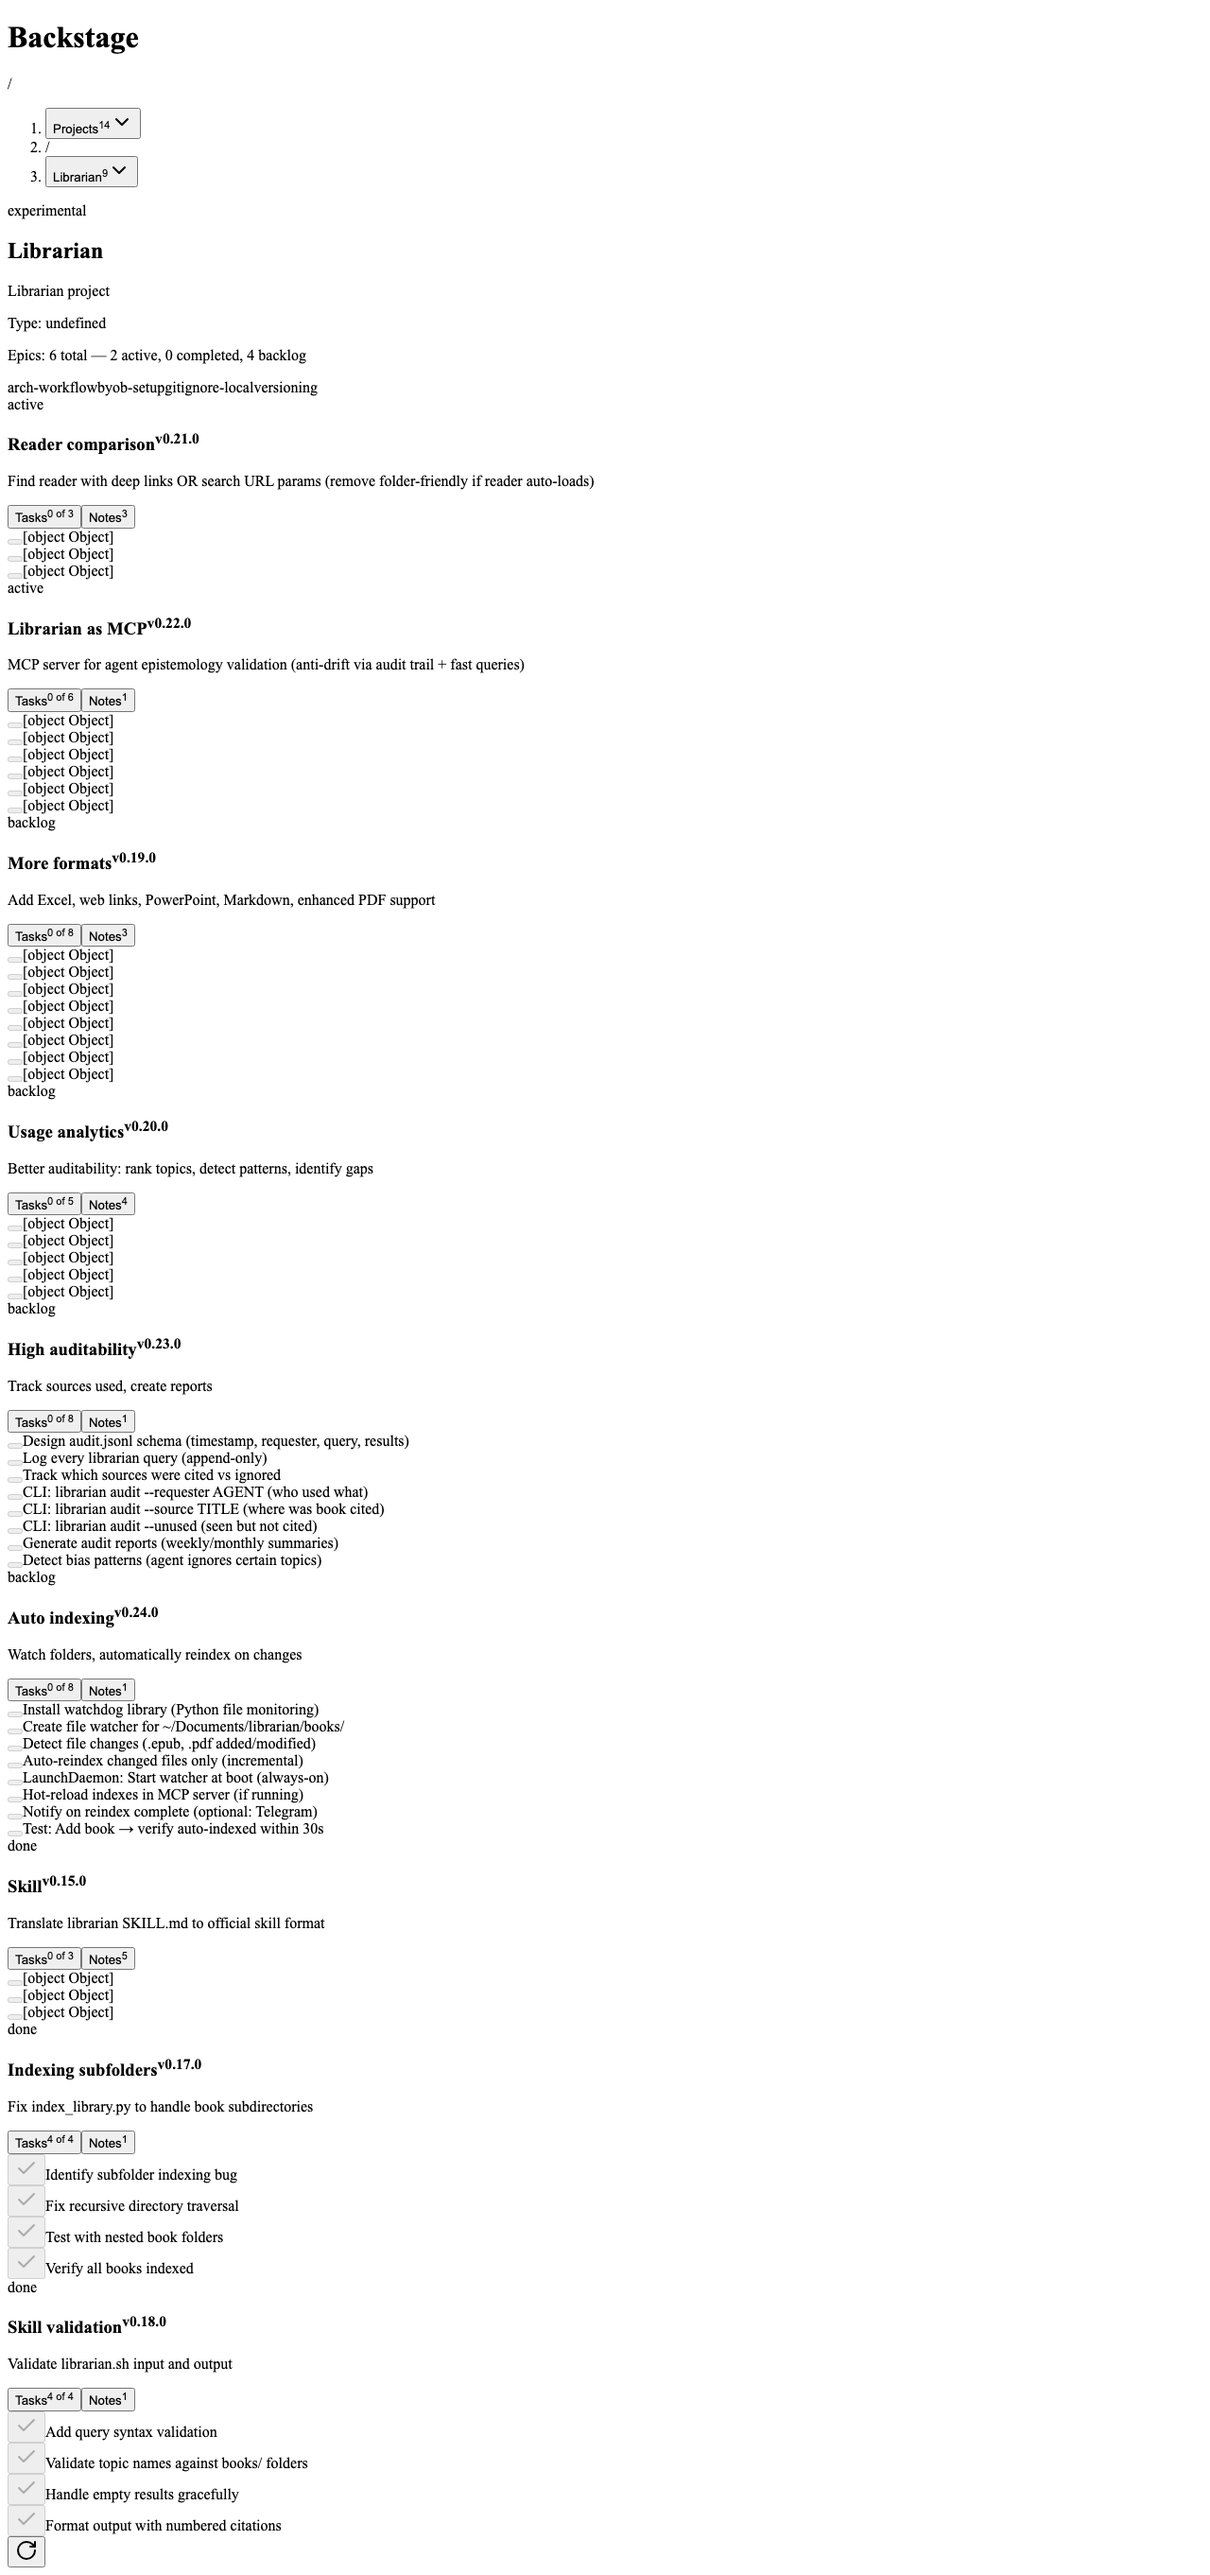
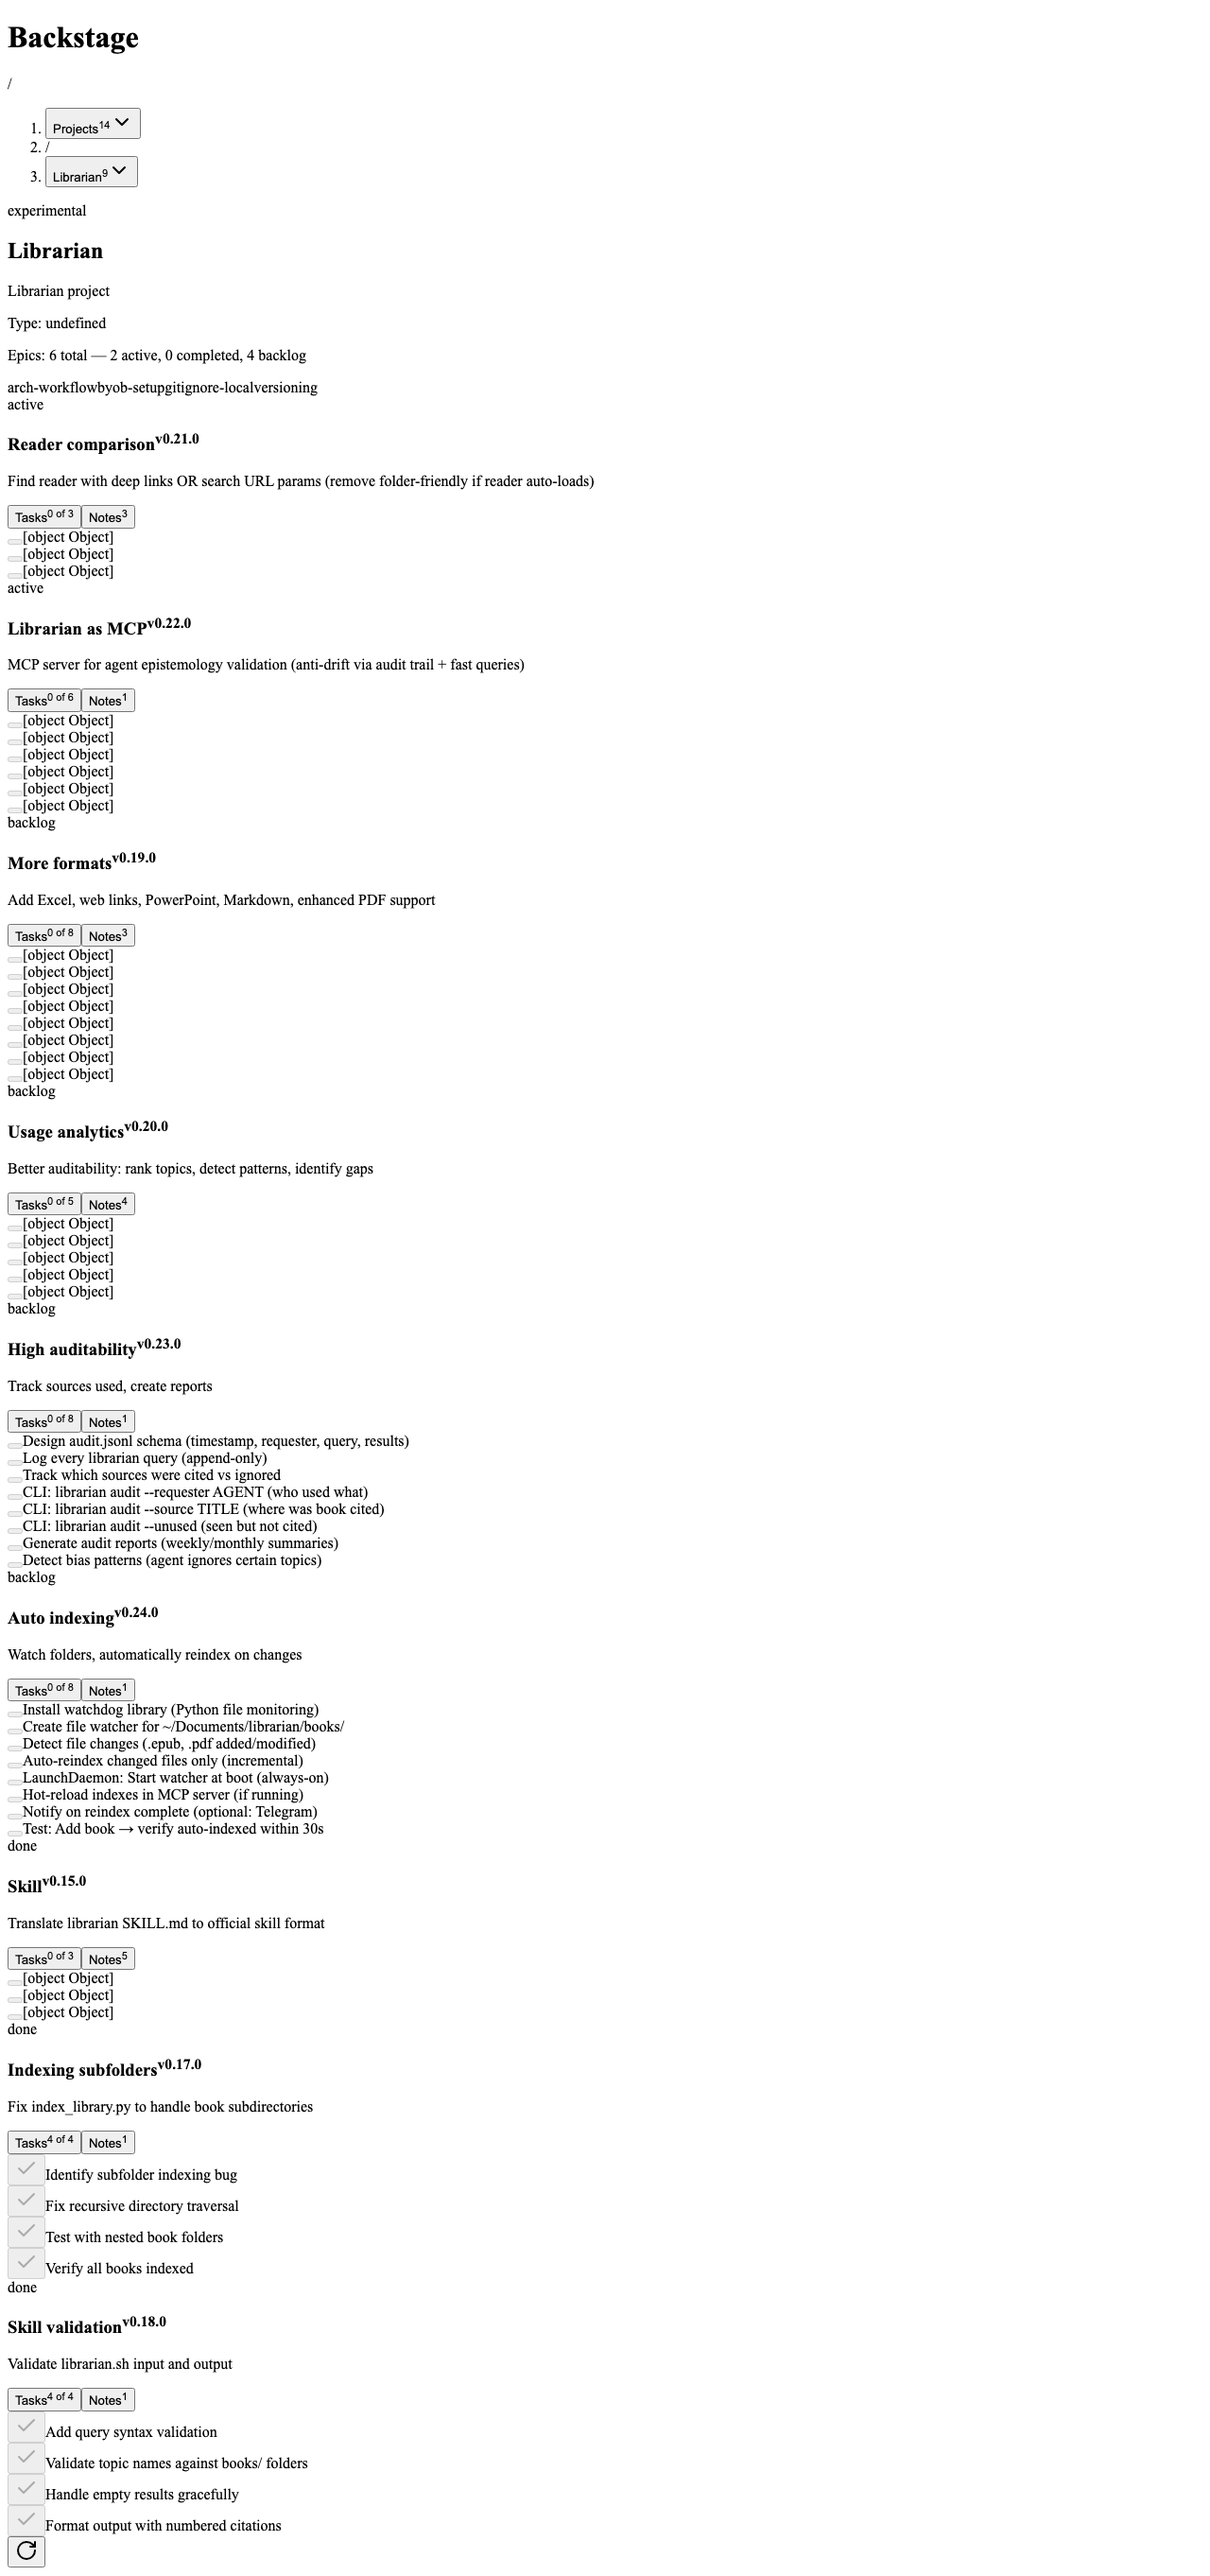
ULTRA-AGGRESSIVE: Force JSON.stringify fallback for [object Object] debugging

diff --git a/app/components/EpicCard.tsx b/app/components/EpicCard.tsx
@@ -117,26 +117,6 @@ export function EpicCard({
       </CardHeader>
       
       <CardContent>
-        {/* DEBUG logging */}
-        {(() => {
-          console.log('=== EPIC CARD DEBUG ===')
-          console.log('Epic version:', epic.version)
-          console.log('Tasks length:', tasks.length)
-          console.log('Tasks[0] type:', typeof tasks[0])
-          console.log('Tasks[0] raw:', tasks[0])
-          if (tasks[0] && 'group' in tasks[0]) {
-            console.log('Tasks[0].group:', (tasks[0] as any).group)
-            console.log('Tasks[0].items:', (tasks[0] as any).items)
-            if (Array.isArray((tasks[0] as any).items) && (tasks[0] as any).items[0]) {
-              console.log('First item:', (tasks[0] as any).items[0])
-              console.log('First item.text:', (tasks[0] as any).items[0].text)
-              console.log('First item.text type:', typeof (tasks[0] as any).items[0].text)
-            }
-          }
-          console.log('====================')
-          return null
-        })()}
-        
         {/* Tabs: Tasks and Notes */}
         <Tabs value={activeTab} onValueChange={(v) => onTabChange(v as "tasks" | "notes")} className="w-full">
           <TabsList className="justify-start pt-1">
@@ -165,32 +145,35 @@ export function EpicCard({
                         {taskGroup.group}
                       </h4>
                       {taskGroup.items.map((task, taskIdx) => {
-                        console.log(`Rendering task ${taskIdx}:`, typeof task, task)
-                        console.log(`  task.text type:`, typeof task.text, task.text)
+                        // ULTRA-AGGRESSIVE: stringify everything
+                        const taskObj = task && typeof task === 'object' ? task : { text: String(task), checked: false }
+                        let textValue = ''
                         
-                        // Defensive: extract text from any structure
-                        let displayText = '[NO TEXT]'
-                        if (task && typeof task === 'object') {
-                          if ('text' in task) {
-                            displayText = typeof task.text === 'string' ? task.text : JSON.stringify(task.text)
-                          } else if ('name' in task) {
-                            displayText = String((task as any).name)
-                          } else {
-                            displayText = JSON.stringify(task)
-                          }
+                        // Try every possible extraction
+                        if ('text' in taskObj) {
+                          textValue = typeof taskObj.text === 'string' 
+                            ? taskObj.text 
+                            : JSON.stringify(taskObj.text)
+                        } else if ('name' in taskObj) {
+                          textValue = String(taskObj.name)
                         } else {
-                          displayText = String(task)
+                          textValue = JSON.stringify(taskObj)
+                        }
+                        
+                        // Final fallback
+                        if (!textValue || textValue === '[object Object]') {
+                          textValue = `[DEBUG: ${JSON.stringify(taskObj)}]`
                         }
                         
                         return (
                           <div key={taskIdx} className="flex items-start gap-2 ml-4">
                             <Checkbox 
-                              checked={typeof task === 'object' && 'checked' in task ? task.checked : false}
+                              checked={Boolean(taskObj.checked)}
                               disabled
                               className="mt-0.5"
                             />
                             <label className="text-sm leading-tight">
-                              {displayText}
+                              {textValue}
                             </label>
                           </div>
                         )

diff --git a/app/tests/verify-tasks.spec.ts b/app/tests/verify-tasks.spec.ts
@@ -1,16 +1,16 @@
 import { test } from '@playwright/test';
 
-test('capture librarian epic tasks UI', async ({ page }) => {
+test('capture librarian epic tasks UI + console logs', async ({ page }) => {
+  // Capture console logs
+  const consoleLogs: string[] = [];
+  page.on('console', msg => {
+    consoleLogs.push(msg.text());
+  });
+  
   await page.goto('http://localhost:3004/projects/librarian');
   
   // Wait for page to load
   await page.waitForTimeout(2000);
-  
-  // Take full page screenshot
-  await page.screenshot({ 
-    path: 'librarian-tasks-debug.png', 
-    fullPage: true 
-  });
   
   // Find epic v0.22.0 card and click to expand
   const epicCard = page.locator('text=v0.22.0').first();
@@ -23,12 +23,8 @@ test('capture librarian epic tasks UI', async ({ page }) => {
     fullPage: true 
   });
   
-  // Log task elements to console
-  const taskElements = await page.locator('[role="checkbox"]').all();
-  console.log(`Found ${taskElements.length} task checkboxes`);
-  
-  for (let i = 0; i < taskElements.length; i++) {
-    const label = await taskElements[i].locator('..').locator('label').textContent();
-    console.log(`Task ${i}: "${label}"`);
-  }
+  // Print captured console logs
+  console.log('\n=== CAPTURED CONSOLE LOGS ===');
+  consoleLogs.forEach(log => console.log(log));
+  console.log('=== END CONSOLE LOGS ===\n');
 });

diff --git a/app/playwright.config.ts b/app/playwright.config.ts
@@ -2,25 +2,12 @@ import { defineConfig, devices } from '@playwright/test';
 
 export default defineConfig({
   testDir: './tests',
-  fullyParallel: false,
-  forbidOnly: !!process.env.CI,
-  retries: 0,
-  workers: 1,
-  reporter: 'list',
   use: {
-    baseURL: 'http://localhost:3002',
-    trace: 'on-first-retry',
+    baseURL: 'http://localhost:3004',
     screenshot: 'only-on-failure',
+    trace: 'on-first-retry',
   },
   projects: [
-    {
-      name: 'chromium',
-      use: { ...devices['Desktop Chrome'] },
-    },
+    { name: 'chromium', use: { ...devices['Desktop Chrome'] } },
   ],
-  // webServer: {
-  //   command: 'npm run dev',
-  //   url: 'http://localhost:3004',
-  //   reuseExistingServer: true,
-  // },
 });
